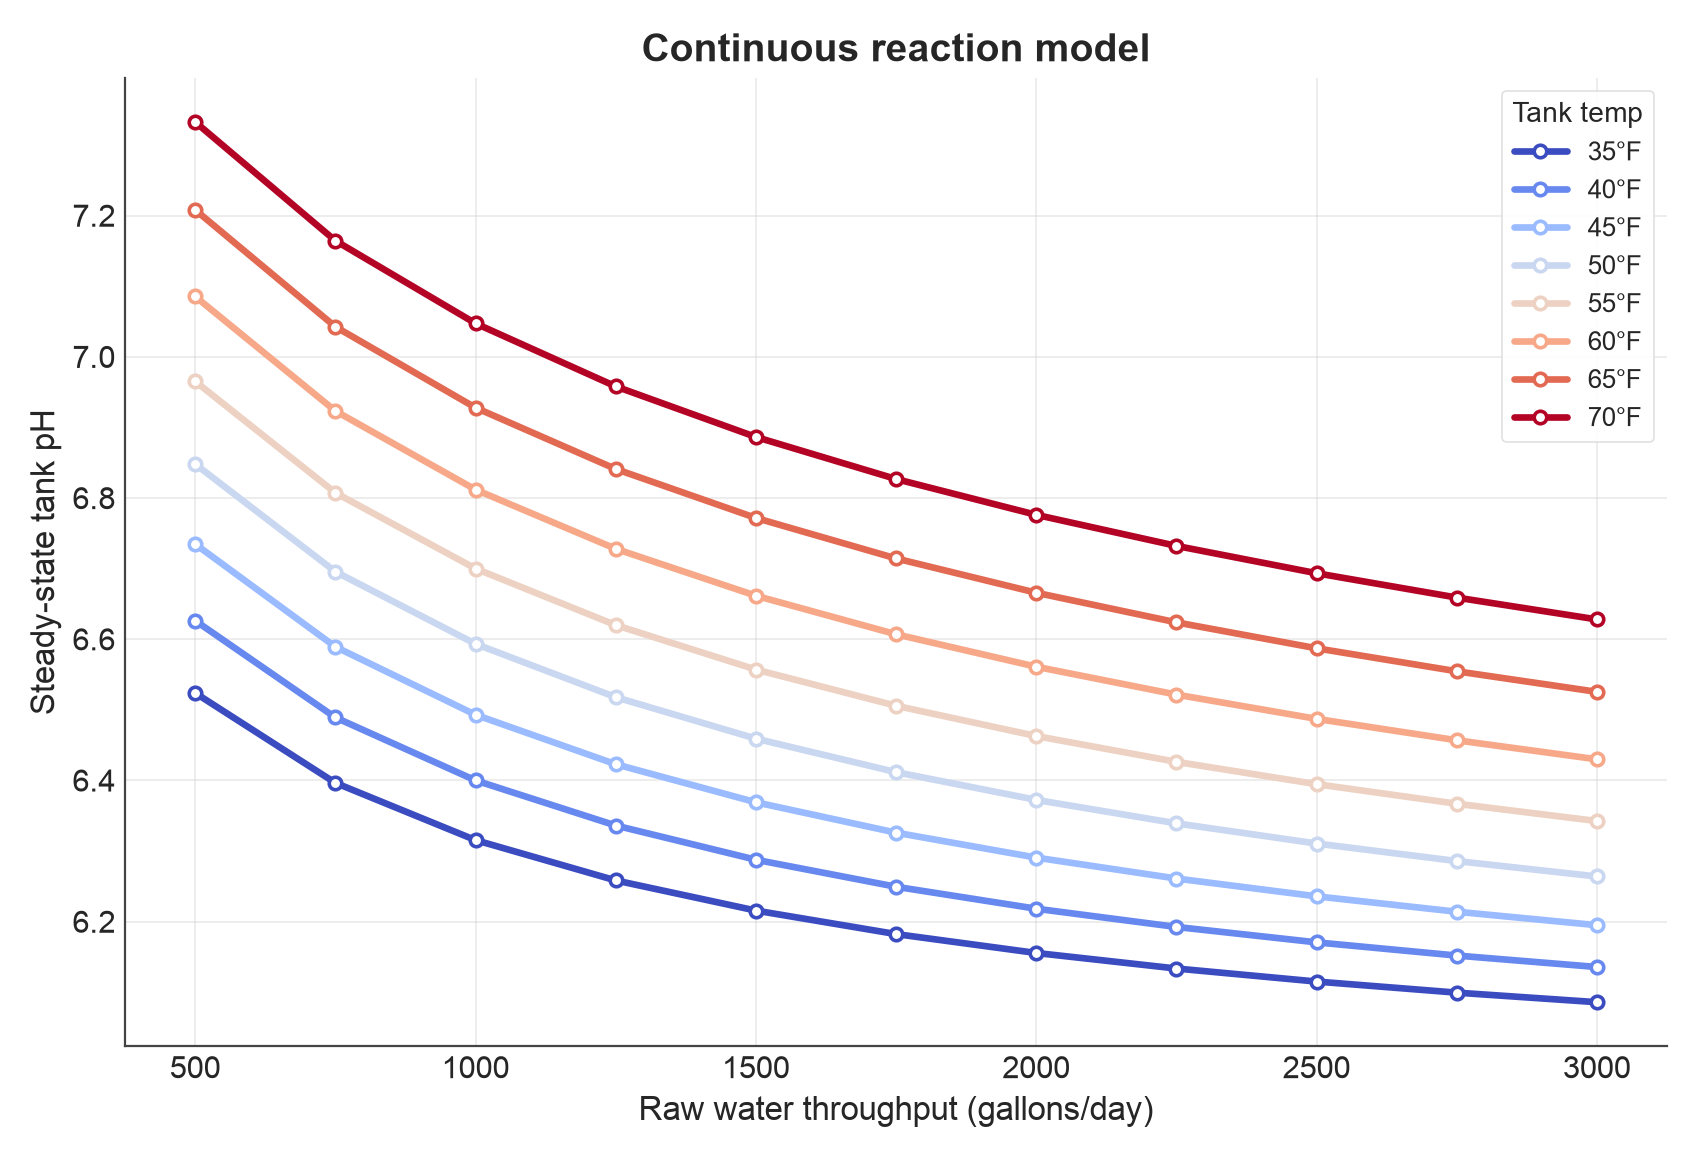
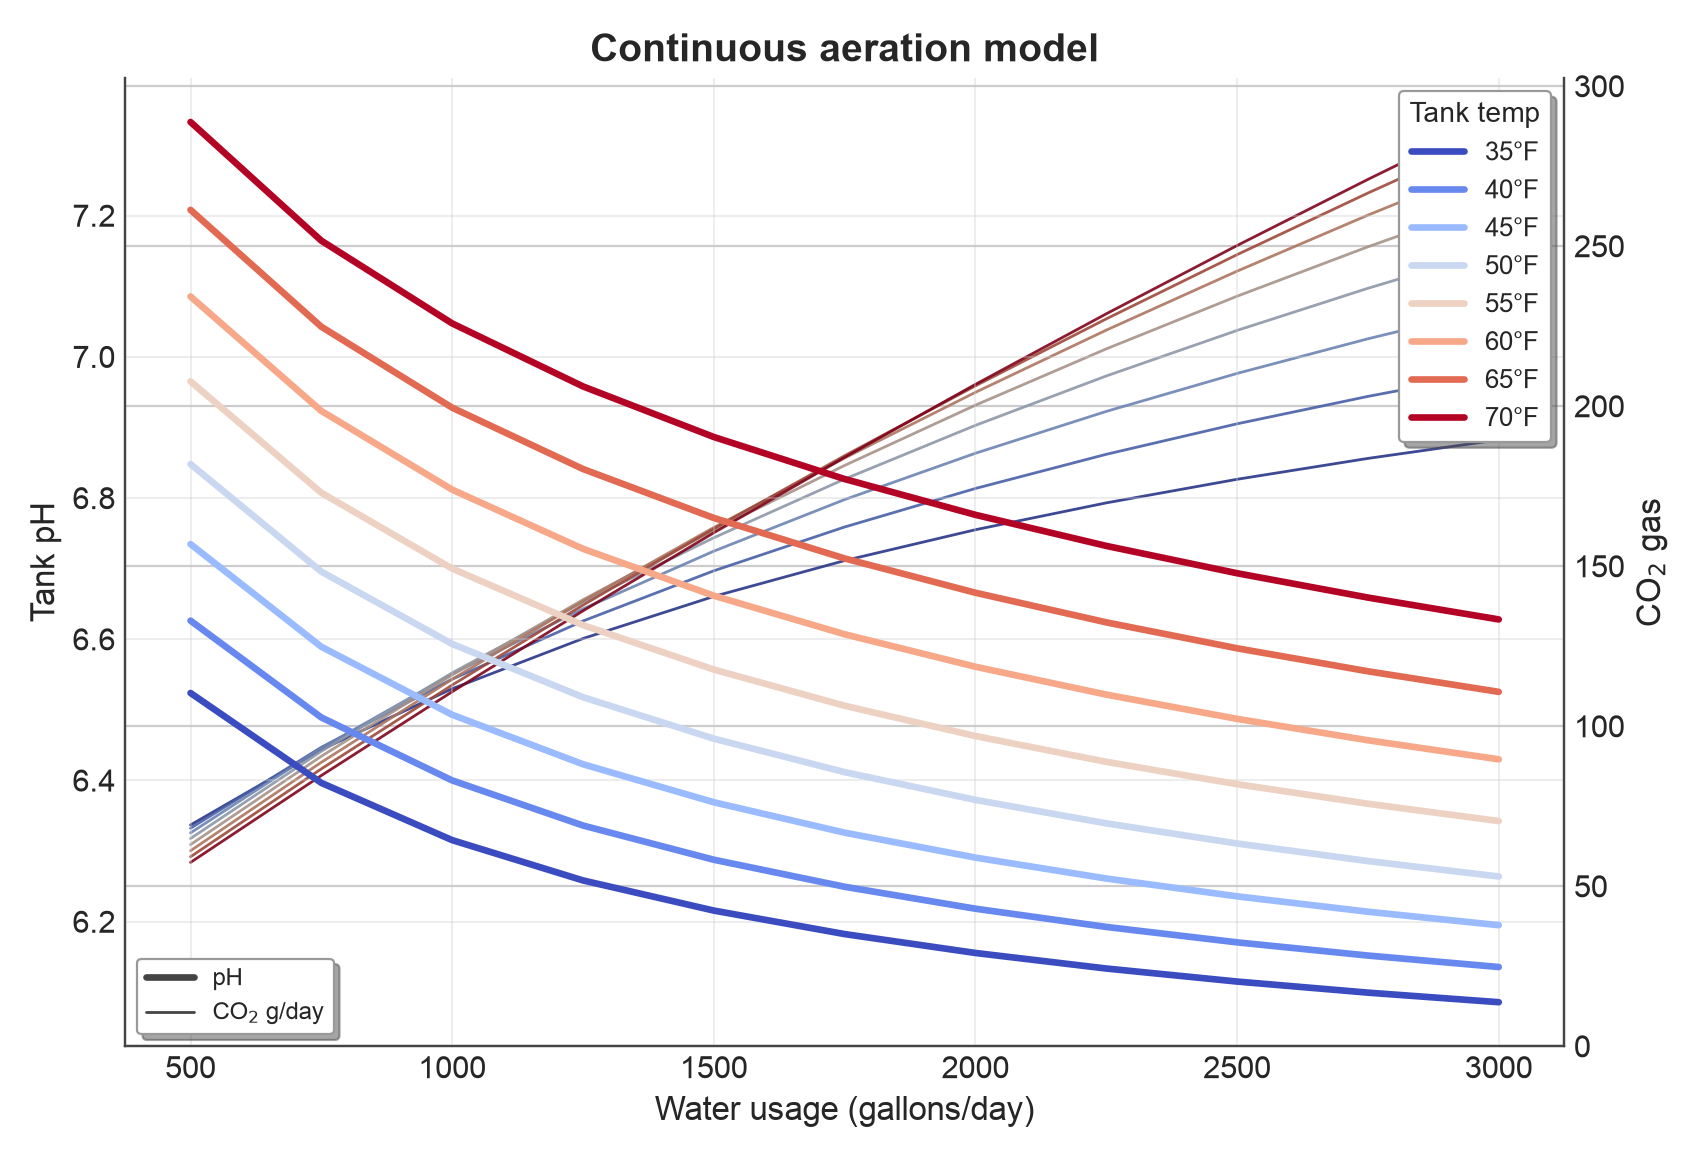
local

diff --git a/model/aeration/aeration_model.py b/model/aeration/aeration_model.py
@@ -89,6 +89,10 @@ except ImportError:
 # <repo>/site/img/, so walk up two parents to find the repo root.
 DEFAULT_PH_PLOT_PATH = Path(__file__).resolve().parents[2] / "site" / "img" / "ph-model.png"
 
+# Unit constants for the CO2 mass-rate calculation (see DERIVATION.md section 3).
+GAL_TO_L = 3.785411784
+CO2_MG_PER_MMOL = 44.01  # CO2 molar mass (g/mol == mg/mmol)
+
 
 # ---------------------------------------------------------------------------
 # Part 1: Chemistry / CSTR pH model
@@ -126,6 +130,21 @@ def raw_co2_mM(alk_mM: float, pk1: float, ph_raw: float) -> float:
     """Dissolved CO2 concentration (mM) implied by Henderson-Hasselbalch,
     given alkalinity (~ [HCO3-]) and pK1 at this temperature."""
     return alk_mM * 10 ** (pk1 - ph_raw)
+
+
+def co2_offgassed_g_per_day(q_raw_gpd: float, c_raw_mM: float, c_tank_mM: float) -> float:
+    """Grams of CO2 per day driven off as gas by the aeration loop.
+
+    At CSTR steady state, raw water enters at C_raw (mM dissolved CO2) and
+    leaves at the tank/outflow concentration C_tank (mM); alkalinity is
+    unchanged (see DERIVATION.md section 2), so the entire concentration
+    drop C_raw - C_tank must have left the system as stripped CO2 gas. Scale
+    that per-liter molar drop by the raw throughput (converted to L/day) and
+    CO2's molar mass to get a mass rate; divide by 1000 to convert mg -> g.
+    """
+    delta_mM = c_raw_mM - c_tank_mM
+    mass_mg_per_day = delta_mM * CO2_MG_PER_MMOL * q_raw_gpd * GAL_TO_L
+    return mass_mg_per_day / 1000.0
 
 
 def single_pass_efficiency(t_f: float, e0: float, k: float, tref_f: float) -> float:
@@ -221,6 +240,7 @@ def run_part1(args):
     header = f"{'Q_raw (gpd)':>12}" + "".join(f"{'pH @'+str(t)+'F':>12}" for t in temps_f)
     print(header)
     results = {t: [] for t in temps_f}
+    results_co2 = {t: [] for t in temps_f}
     for q in flows:
         row = f"{q:>12,}"
         for t in temps_f:
@@ -228,6 +248,9 @@ def run_part1(args):
                 q, t, q_loop_gpd, args.alkalinity, args.raw_ph, e0, k, tref_f
             )
             results[t].append(r["ph_final"])
+            results_co2[t].append(
+                co2_offgassed_g_per_day(q, r["c_raw_mM"], r["c_tank_mM"])
+            )
             row += f"{r['ph_final']:>12.2f}"
         print(row)
     print()
@@ -274,40 +297,89 @@ def run_part1(args):
         t_min, t_max = min(temps_f), max(temps_f)
         t_span = (t_max - t_min) or 1.0
 
+        ax2 = ax.twinx()
+        # twinx() stacks ax2 as a layer entirely on top of ax, so ax2's
+        # lines would otherwise render over ax's legend no matter what
+        # per-artist zorder the legend is given. Flip the axes stacking
+        # order so ax (which owns the legend) is the top layer, and hide
+        # ax's own background patch so ax2's gridlines still show through.
+        ax.set_zorder(ax2.get_zorder() + 1)
+        ax.patch.set_visible(False)
+
         for t in temps_f:
             color = cmap((t - t_min) / t_span)
+            # A darkened version of the same hue for the CO2 line, so it
+            # reads as visually distinct from the pH line of a neighboring
+            # temperature wherever the two families cross.
+            co2_color = tuple(c * 0.7 for c in color[:3]) + (1.0,)
             ax.plot(
                 flows,
                 results[t],
                 color=color,
                 linewidth=2.4,
                 solid_capstyle="round",
-                marker="o",
-                markersize=4.5,
-                markerfacecolor="white",
-                markeredgewidth=1.3,
-                markeredgecolor=color,
                 label=f"{t:.0f}\u00b0F",
             )
+            # Thin solid companion line (darkened hue, no markers) on the
+            # right axis: grams of CO2 driven off per day at this
+            # flow/temperature.
+            ax2.plot(
+                flows,
+                results_co2[t],
+                color=co2_color,
+                linewidth=1.0,
+                linestyle="-",
+                alpha=0.9,
+            )
 
-        ax.set_xlabel("Raw water throughput (gallons/day)")
-        ax.set_ylabel("Steady-state tank pH")
-        ax.set_title("Continuous reaction model")
+        ax.set_xlabel("Water usage (gallons/day)")
+        ax.set_ylabel("Tank pH")
+        ax2.set_ylabel(r"CO$_2$ gas")
+        ax.set_title("Continuous aeration model")
         ax.grid(True, which="major", alpha=0.35, linewidth=0.7)
         ax.set_axisbelow(True)
-        for spine in ("top", "right"):
+        for spine in ("top",):
             ax.spines[spine].set_visible(False)
+            ax2.spines[spine].set_visible(False)
+        ax2.set_ylim(bottom=0)
 
+        # Two small legends: one for temperature color coding (shared by
+        # both pH and CO2 lines), one explaining the thick-vs-thin
+        # line-weight convention. Both use a fully opaque white box with a
+        # visible border and drop shadow, drawn above the line artwork
+        # (high zorder) so crossing lines never show through or blend into
+        # the legend edge.
         legend = ax.legend(
             title="Tank temp",
             frameon=True,
-            framealpha=0.9,
-            edgecolor="#dddddd",
+            framealpha=1.0,
+            facecolor="white",
+            edgecolor="#999999",
             loc="upper right",
             fontsize=9.5,
             title_fontsize=10,
+            shadow=True,
         )
-        legend.get_frame().set_linewidth(0.6)
+        legend.get_frame().set_linewidth(0.8)
+        legend.set_zorder(10)
+        ax.add_artist(legend)
+
+        style_legend = ax.legend(
+            handles=[
+                matplotlib.lines.Line2D([0], [0], color="#444444", linewidth=2.4, linestyle="-"),
+                matplotlib.lines.Line2D([0], [0], color="#444444", linewidth=1.0, linestyle="-"),
+            ],
+            labels=["pH", r"CO$_2$ g/day"],
+            loc="lower left",
+            frameon=True,
+            framealpha=1.0,
+            facecolor="white",
+            edgecolor="#999999",
+            fontsize=8.5,
+            shadow=True,
+        )
+        style_legend.get_frame().set_linewidth(0.8)
+        style_legend.set_zorder(10)
 
         fig.tight_layout()
         out = Path(args.ph_plot_out)

diff --git a/site/content/blog/ph-adjustment.md b/site/content/blog/ph-adjustment.md
@@ -9,7 +9,7 @@ image: "/img/ph-adjustment.svg"
 
 {{ figure src="/img/ph-adjustment.svg" /}}
 
-Our pH-adjustment process recirculates water from our service main
+Our pH-adjustment process recirculates water from the service main
 back into storage, on the way passing through a **venturi injector**
 that draws air into the pipe. As it returns to the tank, the air/water
 mixture is distributed through an **eductor**, which induces
@@ -28,17 +28,13 @@ equillibrium, leaving fewer hydrogen ions: higher pH, less
 acidity. This is the same chemistry driving ocean acidification,
 running in reverse.
 
-(Our water is also high in soluble iron Fe²⁺. This treatment causes
-red iron oxide Fe₂O₃ to precipitate onto the floor of the tank.)
-
 ## pH
 
 In chemistry, `[X]` denotes the concentration of compound `X` in
 solution. For example, `[H⁺]` is the concentration of hydrogen ions
-and `[HCO₃⁻]` is the concentration of bicarbonate (i.e., hydrogen
-carbonate) ions.  In 1908, American chemist Lawrence Joseph Henderson
-derived an equation relating the concentration of hydrogen ions in a
-buffer solution.
+and `[HCO₃⁻]` is the concentration of bicarbonate ions.  In 1908,
+American chemist Lawrence Joseph Henderson derived an equation
+relating the concentration of hydrogen ions in a buffer solution.
 
 ```
 H⁺ + A⁻ ⇌ HA
@@ -49,35 +45,36 @@ Danish chemish Karl Albert Hasselbach, also studying blood chemistry,
 rearranged this into its modern form by taking the negative-logarithm
 of hydrogen concentration known as pH.
 
-```
-pH = -log₁₀[H+]
-```
+<div class="equation">
+pH = -log<sub>10</sub>[H⁺]
+</div>
 
 The Henderson-Hasselbach equation can be simplified for normal pH
 values (i.e., not extreme); the concentration `[H₂O]` is effectively
 constant, and we can combine the effects of CO₂ gas and aqueous H₂CO₃
 into as single form denoted `[H₂CO₃*]`.  The acid disassociation
-constant `pKa` expresses the thermodynamic equillibrium for carbonic
+constant <code>pK<sub>a</sub></code> expresses the thermodynamic equillibrium for carbonic
 acid, the midpoint of its buffering range.
 
-```
-pH = pKa + log₁₀( [HCO₃⁻] / [H₂CO₃*] )
-```
+<div class="equation">
+pH = pK<sub>a</sub> + log<sub>10</sub>( [HCO₃⁻] / [H₂CO₃*] )
+</div>
 
 This tells us that for a carbonic acid solution, pH is defined by a
-constant function of temperature plus a logarithm of a ratio.
+constant function of temperature plus a logarithm of a base-to-acid
+ratio.
 
 ## Alkalinity
 
 Alkalinity is the ability of a solution to neutralize acid, it's a
 function of negative charge imbalance.  For a simple carbonate system
-with drinking water pH (see the "Bjerrum plot"), dominant carbonate
+with drinking water pH (see the "Bjerrum plot"), the dominant carbonate
 species is bicarbonate ion (HCO₃⁻) and alkalinity is approximately the
-difference `[HCO3-] - [H+]`.
+difference `[HCO₃⁻] - [H⁺]`.
 
 In the context of drinking water, alkalinity is expressed in units
 equivalent to `[CaCO₃]`. Calcium carbonate concentration is the
-standard measure for alkalinity in freshwater because it is most
+standard measure for alkalinity in freshwater because it is the most
 common (e.g., from rain on limestone) and because its molecular weight
 rounds neatly to 100 g/mol.
 
@@ -86,12 +83,12 @@ alkalinity. Since calcium neutralizes two positive ions per unit of
 mass, we can translate from alkalinity (mg/L) into units of charge per
 liter. Our raw water has alkalinity 12 mg/L,
 
-```
-Alkalinity = [HCO3-] = 12 mg/L · 2 / 100 g/mol = 0.24mmol/L
-```
+<div class="equation">
+Alkalinity = [HCO₃⁻] = 12 mg/L · 2 / 100 g/mol = 0.24 mmol/L
+</div>
 
-To a good approximation, we known `[HCO3-]` is 0.24mmol/L. More
-importantly, alkalinity does not change as C₂O offgasses, because C₂O
+To a good approximation, we known `[HCO₃⁻]` is 0.24 mmol/L. More
+importantly, alkalinity does not change as CO₂ offgasses, because CO₂
 is charge-neutral. pH rises because there is less H₂CO₃* with the same
 balance of charge.
 
@@ -100,16 +97,16 @@ balance of charge.
 The Henderson-Hasselback equation can be rearranged with `[HCO₃⁻]`
 fixed by alkalinity to solve for `[H₂CO₃*]`.
 
-```
-Alkalinity = [H₂CO₃*] · 10^(pH - pKa)
-```
+<div class="equation">
+Alkalinity = [H₂CO₃*] · 10<sup>(pH - pK<sub>a</sub>)</sup>
+</div>
 
 The quantity `[H₂CO₃*]` becomes a function of the measured pH and
 temperature.
 
-```
-[H₂CO₃*] = Alkalinity · 10^(pKa - pH)
-```
+<div class="equation">
+[H₂CO₃*] = Alkalinity · 10<sup>(pK<sub>a</sub> - pH)</sup>
+</div>
 
 From this we can derive a change of mass from a change of pH.
 
@@ -119,23 +116,23 @@ Using temperature, we can estimate the acid disassociation constant
 `pK` for carbonic acid. There is a well-established Plummer &
 Busenberg formula, a emperical fit with 5 terms:
 
-```
-pK = -log(a + b·T + c/T + d·log10(T) - e/T²)
-```
+<div class="equation">
+pK = -log<sub>10</sub>(k<sub>1</sub> + k<sub>2</sub>·T + k<sub>3</sub>/T + k<sub>4</sub>·log<sub>10</sub>(T) - k<sub>5</sub>/T<sup>2</sup>)
+</div>
 
 As water circulates through the injector, CO₂ is extracted in
 temperature-dependent process. We will assume by the Arrhenius
 equation that the rate of this process `E(T)` is an exponential
 function of temperature that we can fit from observed data.
 
-```
-E(T) = E_0 · exp( k · (T - T_0) )
-```
+<div class="equation">
+E(T) = E<sub>0</sub> · exp( k · (T - T<sub>0</sub>) )
+</div>
 
 ## Reaction
 
 The setup is modeled as a well-mixed tank where raw water enters with
-`pH_raw`, is treated continuously, and leaves with `pH_finished`. Our
+<code>pH<sub>raw</sub></code>, is treated continuously, and leaves with <code>pH<sub>finished</sub></code>. Our
 raw water enters the tank with pH 5.9 and exits with higher pH. As
 constants in this system, we have:
 
@@ -143,7 +140,7 @@ constants in this system, we have:
 - Treatment
 - Raw pH
 
-The control variables are:
+The ambient variables are:
 
 - Temperature
 - Flow
@@ -166,13 +163,9 @@ predicted pH of our system.
 
 ## Cost
 
-How effective is this treatment? Our raw water starts at around pH 5.9
-with alkalinity of 12 mg/L (as CaCO₃). Each 1000 gallons of this water
-contains about 1kG of CO₂ as it enters the tank, of which 100g
-off-gasses as CO₂. Water enters the service main with pH in the range
-of 6.3-6.7 depending on temperature and flow.
-
 How efficient is this treatment? It's not. The process uses about
-12kWh of electricity per day and although there is nothing disposable
+12kWh of electricity per day and while there is nothing disposable
 in the process, it costs around 3x the cost of operating a calcium
 carbonate media filter.
+
+
